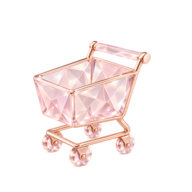
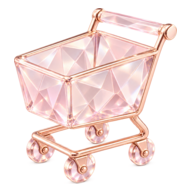
fix(admin): aumenta iconos de cristal y agrega animacion sutil

diff --git a/frontend/src/admin/AdminLayout.jsx b/frontend/src/admin/AdminLayout.jsx
@@ -715,40 +715,77 @@ export default function AdminLayout() {
         .admin-premium-nav-icon {
           position: relative;
           display: grid;
-          width: 32px;
-          height: 32px;
-          flex: 0 0 32px;
+          width: 36px;
+          height: 36px;
+          flex: 0 0 36px;
           place-items: center;
           isolation: isolate;
         }
 
         .admin-premium-nav-icon__halo {
           position: absolute;
-          left: 5px;
-          right: 5px;
-          bottom: 1px;
-          height: 8px;
+          left: 6px;
+          right: 6px;
+          bottom: 2px;
+          height: 9px;
           z-index: -1;
           border-radius: 50%;
           background: color-mix(in srgb, var(--admin-primary) 38%, transparent);
           filter: blur(5px);
-          opacity: .42;
-          transition: opacity .2s ease, filter .2s ease;
+          opacity: .38;
+          transform: scale(.9);
+          animation: adminCrystalHaloPulse 4.6s ease-in-out infinite;
+          transition: opacity .24s ease, filter .24s ease;
         }
 
         .admin-premium-nav-icon__miniature {
           position: relative;
           z-index: 1;
           display: block;
-          width: 31px;
-          height: 31px;
+          width: 36px;
+          height: 36px;
           object-fit: contain;
           pointer-events: none;
           user-select: none;
           filter:
+            contrast(1.05)
             drop-shadow(0 1px 0 rgba(255,255,255,.5))
-            drop-shadow(0 3px 4px color-mix(in srgb, var(--admin-primary) 24%, rgba(38,20,34,.2)));
-          transition: filter .2s ease;
+            drop-shadow(0 3px 4px color-mix(in srgb, var(--admin-primary) 30%, rgba(38,20,34,.28)));
+          animation: adminCrystalIconGleam 5.2s ease-in-out infinite;
+          transform: translateZ(0);
+          transition: filter .24s ease, transform .24s ease;
+        }
+
+        @keyframes adminCrystalIconGleam {
+          0%, 68%, 100% {
+            filter:
+              contrast(1.05)
+              brightness(1)
+              drop-shadow(0 1px 0 rgba(255,255,255,.5))
+              drop-shadow(0 3px 4px color-mix(in srgb, var(--admin-primary) 30%, rgba(38,20,34,.28)));
+          }
+          78% {
+            filter:
+              contrast(1.08)
+              brightness(1.13)
+              drop-shadow(0 1px 0 rgba(255,255,255,.72))
+              drop-shadow(0 4px 7px color-mix(in srgb, var(--admin-primary) 42%, rgba(38,20,34,.3)));
+          }
+        }
+
+        @keyframes adminCrystalHaloPulse {
+          0%, 100% { opacity: .3; transform: scale(.88); }
+          50% { opacity: .62; transform: scale(1.06); }
+        }
+
+        .admin-nav-link:nth-child(3n + 2) .admin-premium-nav-icon__miniature,
+        .admin-nav-link-mobile:nth-child(3n + 2) .admin-premium-nav-icon__miniature {
+          animation-delay: -1.7s;
+        }
+
+        .admin-nav-link:nth-child(3n) .admin-premium-nav-icon__miniature,
+        .admin-nav-link-mobile:nth-child(3n) .admin-premium-nav-icon__miniature {
+          animation-delay: -3.4s;
         }
 
         .admin-premium-nav-icon__fallback {
@@ -759,32 +796,43 @@ export default function AdminLayout() {
         }
 
         .admin-premium-nav-icon--compact {
-          width: 26px;
-          height: 26px;
-          flex-basis: 26px;
+          width: 30px;
+          height: 30px;
+          flex-basis: 30px;
         }
 
         .admin-premium-nav-icon--compact .admin-premium-nav-icon__miniature {
-          width: 25px;
-          height: 25px;
+          width: 30px;
+          height: 30px;
         }
 
         .admin-nav-link:hover .admin-premium-nav-icon__halo,
         .admin-nav-link-mobile:hover .admin-premium-nav-icon__halo,
         .admin-nav-link[aria-current="page"] .admin-premium-nav-icon__halo,
         .admin-nav-link-mobile[aria-current="page"] .admin-premium-nav-icon__halo {
+          animation: none;
           opacity: .92;
           filter: blur(9px);
+          transform: scale(1.08);
         }
 
         .admin-nav-link:hover .admin-premium-nav-icon__miniature,
         .admin-nav-link-mobile:hover .admin-premium-nav-icon__miniature,
         .admin-nav-link[aria-current="page"] .admin-premium-nav-icon__miniature,
         .admin-nav-link-mobile[aria-current="page"] .admin-premium-nav-icon__miniature {
+          animation: none;
           filter:
             brightness(1.06)
             drop-shadow(0 1px 0 rgba(255,255,255,.55))
             drop-shadow(0 4px 6px color-mix(in srgb, var(--admin-primary) 38%, rgba(38,20,34,.2)));
+          transform: translateY(-1px) scale(1.06);
+        }
+
+        @media (prefers-reduced-motion: reduce) {
+          .admin-premium-nav-icon__miniature,
+          .admin-premium-nav-icon__halo {
+            animation: none;
+          }
         }
 
         .admin-nav-link:hover .admin-icon-wrap,
